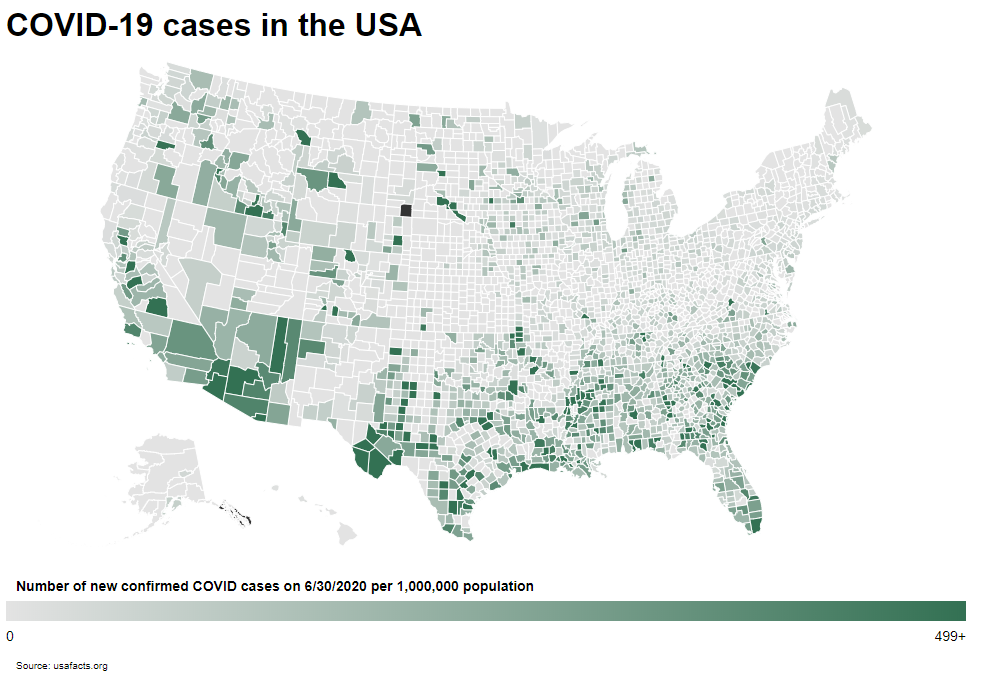
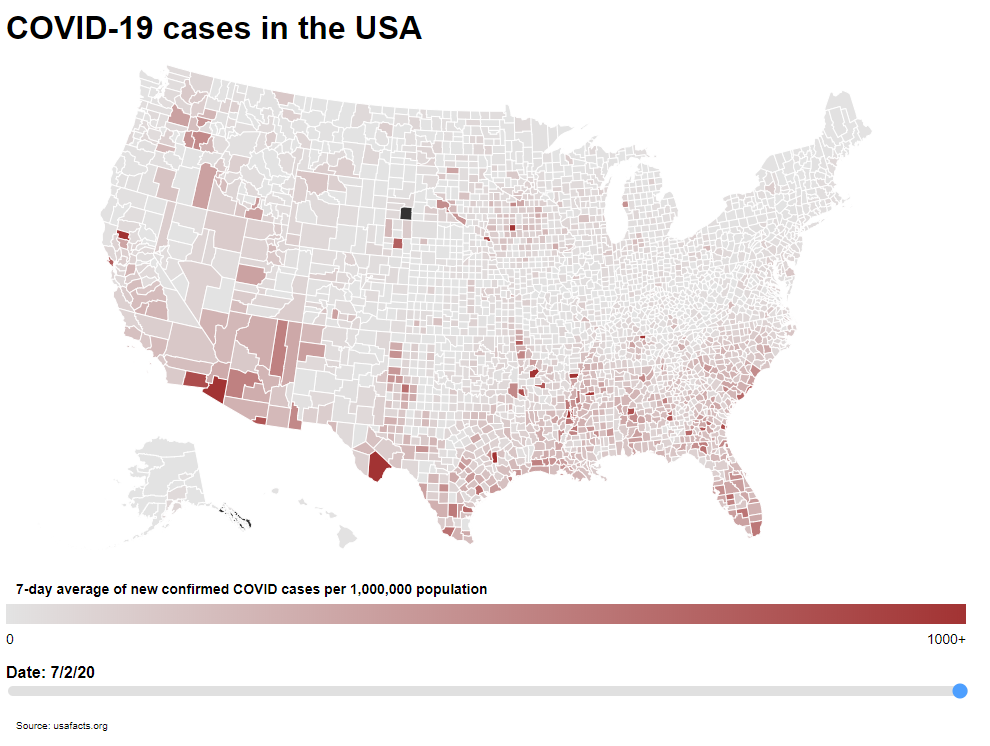
red map, 7-day average

Changed region(s): [[0.0, 0.0922, 1.0, 0.9839], [0.0, 0.0, 0.4281, 0.0615], [0.3364, 0.7072, 0.367, 0.7379]]

diff --git a/index.js b/index.js
@@ -1,4 +1,5 @@
-var width = 960, height = 600;
+const width = 960, height = 600;
+const lowColor = "#dcdcdc", highColor = "#8b0000"
  
 var div = d3.select("body").append("div")
     .attr("class", "tooltip")
@@ -18,15 +19,15 @@ var linearGradient = defs.append("linearGradient")
 
 linearGradient.append("stop")
     .attr("offset", "0%")
-    .attr("stop-color", "#dcdcdc");
+    .attr("stop-color", lowColor);
 
 linearGradient.append("stop")
     .attr("offset", "100%")
-    .attr("stop-color", "#004d28");
+    .attr("stop-color", highColor);
 
 var path = d3.geo.path();
 
-const legend_title = "Number of new confirmed COVID cases per 1,000,000 population";
+const legend_title = "7-day average of new confirmed COVID cases per 1,000,000 population";
 
 const num_color_divisions = 13;
 
@@ -43,7 +44,7 @@ function getDataValue(d, date) {
     const d2 = getConfirmedCasesOnDate(d, date);
     
     const prevDate = new Date(date.getTime());
-    prevDate.setDate(date.getDate() - 1);
+    prevDate.setDate(date.getDate() - 7);
     var d1 = getConfirmedCasesOnDate(d, prevDate);
 
     if (isNaN(d1)) {
@@ -56,7 +57,7 @@ function getDataValue(d, date) {
         return 0;
     }
 
-    return Math.round(1000000 * (d2 - d1) / population);
+    return Math.round(1000000 * (d2 - d1) / 7 / population);
 }
 
 // Return the minimum value in the color domain.
@@ -128,7 +129,7 @@ function ready(error, us, data) {
 
     var color = d3.scale.linear()
         .domain([domain_min, domain_max])
-        .range(["#dcdcdc", "#004d28"])
+        .range([lowColor, highColor])
         .clamp(true);
 
     // Pre-process data
